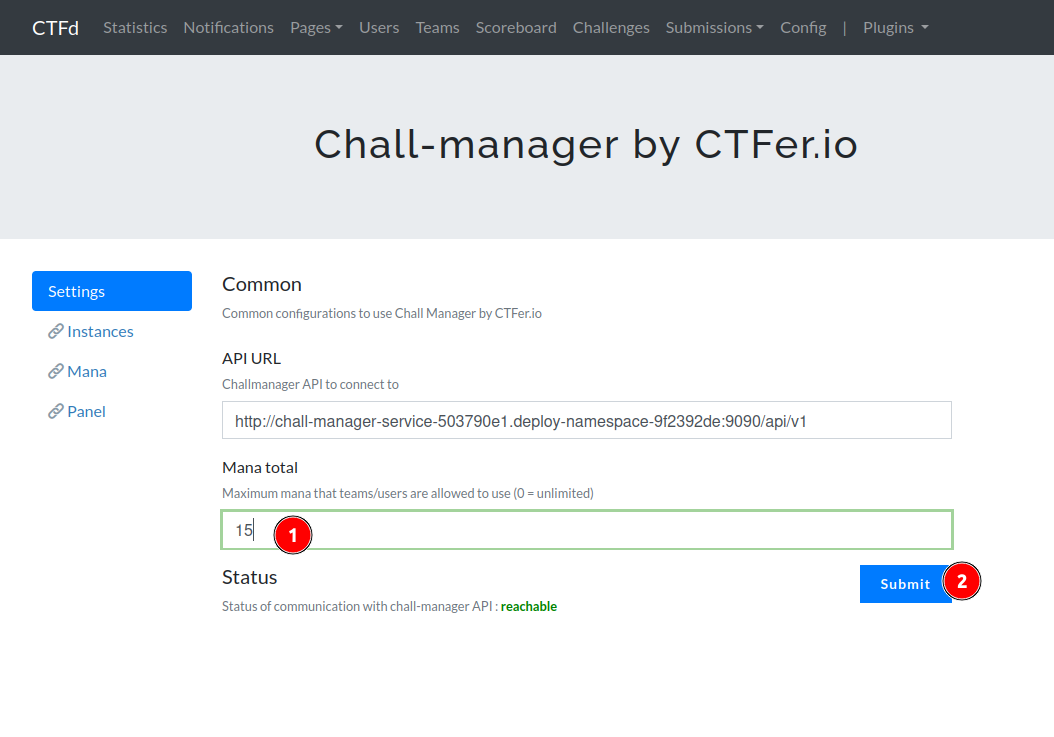
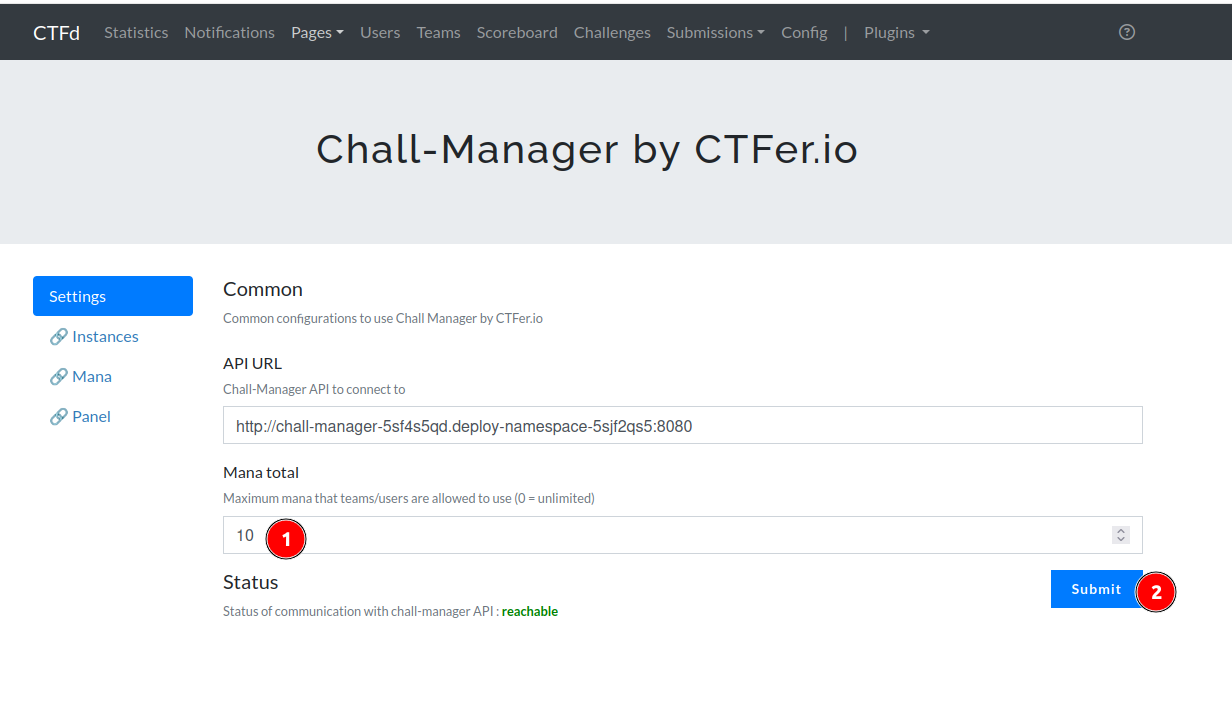
Refacto PLUGIN_SETTINGS_CM_API_URL format (#168)
* chore!: change the CM_API_URL format

* chore: remove useless import

* docs: update screenshot

Changed region(s): [[0.0, 0.3423, 0.9715, 0.8713], [0.0, 0.0, 1.0, 0.0934], [0.2429, 0.1556, 0.8197, 0.2489]]

diff --git a/utils/instance_manager.py b/utils/instance_manager.py
@@ -18,7 +18,7 @@ def create_instance(challengeId: int, sourceId: int) -> requests.Response | Exce
     """
 
     cm_api_url = get_config("chall-manager:chall-manager_api_url")
-    url = f"{cm_api_url}/instance"
+    url = f"{cm_api_url}/api/v1/instance"
 
     payload = {
         "challengeId": str(challengeId),
@@ -57,7 +57,7 @@ def delete_instance(challengeId: int , sourceId: int) -> requests.Response | Exc
     """
 
     cm_api_url = get_config("chall-manager:chall-manager_api_url")
-    url = f"{cm_api_url}/instance/{challengeId}/{sourceId}"
+    url = f"{cm_api_url}/api/v1/instance/{challengeId}/{sourceId}"
 
     logger.debug(f"Deleting instance for challengeId={challengeId}, sourceId={sourceId}")
 
@@ -85,7 +85,7 @@ def get_instance(challengeId: int, sourceId: int) -> requests.Response | Excepti
     """
 
     cm_api_url = get_config("chall-manager:chall-manager_api_url")
-    url = f"{cm_api_url}/instance/{challengeId}/{sourceId}"
+    url = f"{cm_api_url}/api/v1/instance/{challengeId}/{sourceId}"
 
     logger.debug(f"Getting instance information for challengeId={challengeId}, sourceId={sourceId}")
 
@@ -113,7 +113,7 @@ def update_instance(challengeId: int, sourceId: int) -> requests.Response | Exce
     """
 
     cm_api_url = get_config("chall-manager:chall-manager_api_url")
-    url = f"{cm_api_url}/instance/{challengeId}/{sourceId}"
+    url = f"{cm_api_url}/api/v1/instance/{challengeId}/{sourceId}"
 
     payload = {}
 
@@ -147,7 +147,7 @@ def query_instance(sourceId: int) -> list | Exception:
     """
     
     cm_api_url = get_config("chall-manager:chall-manager_api_url")
-    url = f"{cm_api_url}/instance?sourceId={sourceId}"
+    url = f"{cm_api_url}/api/v1/instance?sourceId={sourceId}"
 
     s = requests.Session()
 

diff --git a/utils/challenge_store.py b/utils/challenge_store.py
@@ -13,7 +13,7 @@ def query_challenges() -> list:
     :return list: list of challenges [{ . }, { . }]
     """
     cm_api_url = get_config("chall-manager:chall-manager_api_url")
-    url = f"{cm_api_url}/challenge"
+    url = f"{cm_api_url}/api/v1/challenge"
     s = requests.Session()
     result = []
 
@@ -43,7 +43,7 @@ def create_challenge(id: int, *args) -> requests.Response:
     :return Response: of chall-manager API
     """
     cm_api_url = get_config("chall-manager:chall-manager_api_url")
-    url = f"{cm_api_url}/challenge"
+    url = f"{cm_api_url}/api/v1/challenge"
 
     headers = {
         "Content-Type": "application/json"
@@ -84,7 +84,7 @@ def delete_challenge(id: int) -> requests.Response:
     :return Response: of chall-manager API
     """
     cm_api_url = get_config("chall-manager:chall-manager_api_url")
-    url = f"{cm_api_url}/challenge/{id}"
+    url = f"{cm_api_url}/api/v1/challenge/{id}"
 
     logger.debug(f"Deleting challenge with id={id}")
 
@@ -105,7 +105,7 @@ def get_challenge(id: int) -> requests.Response:
     :return Response: of chall-manager API
     """
     cm_api_url = get_config("chall-manager:chall-manager_api_url")
-    url = f"{cm_api_url}/challenge/{id}"
+    url = f"{cm_api_url}/api/v1/challenge/{id}"
 
     logger.debug(f"Getting challenge information for id={id}")
 
@@ -131,7 +131,7 @@ def update_challenge(id: int, *args) -> requests.Response:
     :return Response: of chall-manager API
     """
     cm_api_url = get_config("chall-manager:chall-manager_api_url")
-    url = f"{cm_api_url}/challenge/{id}"
+    url = f"{cm_api_url}/api/v1/challenge/{id}"
 
     headers = {
         "Content-Type": "application/json"

diff --git a/utils/setup.py b/utils/setup.py
@@ -10,7 +10,7 @@ logger = configure_logger(__name__)
 def setup_default_configs():
     logger.debug("configure plugin")
 
-    default_cm_api_url = "http://localhost:8080/api/v1"
+    default_cm_api_url = "http://localhost:8080"
     default_cm_mana_total = 0
 
     # Load varenv
@@ -18,7 +18,7 @@ def setup_default_configs():
 
     # Validate cm_api_url
     parsed_url = urlparse(cm_api_url)
-    if not (parsed_url.scheme in ['http', 'https'] and parsed_url.path == '/api/v1'):
+    if not (parsed_url.scheme in ['http'] ):
         logger.warning(f"Invalid PLUGIN_SETTINGS_CM_API_URL, got {cm_api_url}. Falling back to default.")
         cm_api_url = default_cm_api_url
 

diff --git a/__init__.py b/__init__.py
@@ -69,7 +69,8 @@ def load(app):
         
         try:
             logger.debug("getting connection status with chall-manager")
-            requests.get(get_config("chall-manager:chall-manager_api_url"), timeout=5)
+            health_url = f'{get_config("chall-manager:chall-manager_api_url")}/healthcheck'
+            requests.get(health_url, timeout=5).raise_for_status()
         except Exception as e:
             logger.warning(f"cannot communicate with CM provided got {e}")
             cm_api_reachable = False

diff --git a/webdocs/guides/settings/_index.md b/webdocs/guides/settings/_index.md
@@ -18,7 +18,7 @@ To configure the plugin at CTFd startup, you can use the next environment variab
 
 | Variable                      	| Default                      	| Description                                 	|
 |-------------------------------	|------------------------------	|---------------------------------------------	|
-| PLUGIN_SETTINGS_CM_API_URL    	| http://localhost:8080/api/v1 	| URL of Chall-Manager API                    	|
+| PLUGIN_SETTINGS_CM_API_URL    	| http://localhost:8080      	| URL of Chall-Manager API                    	|
 | PLUGIN_SETTINGS_CM_MANA_TOTAL 	| 0                            	| Maximum mana that source are allowed to use 	|
 
 {{% alert title="Note" color="primary" %}}
